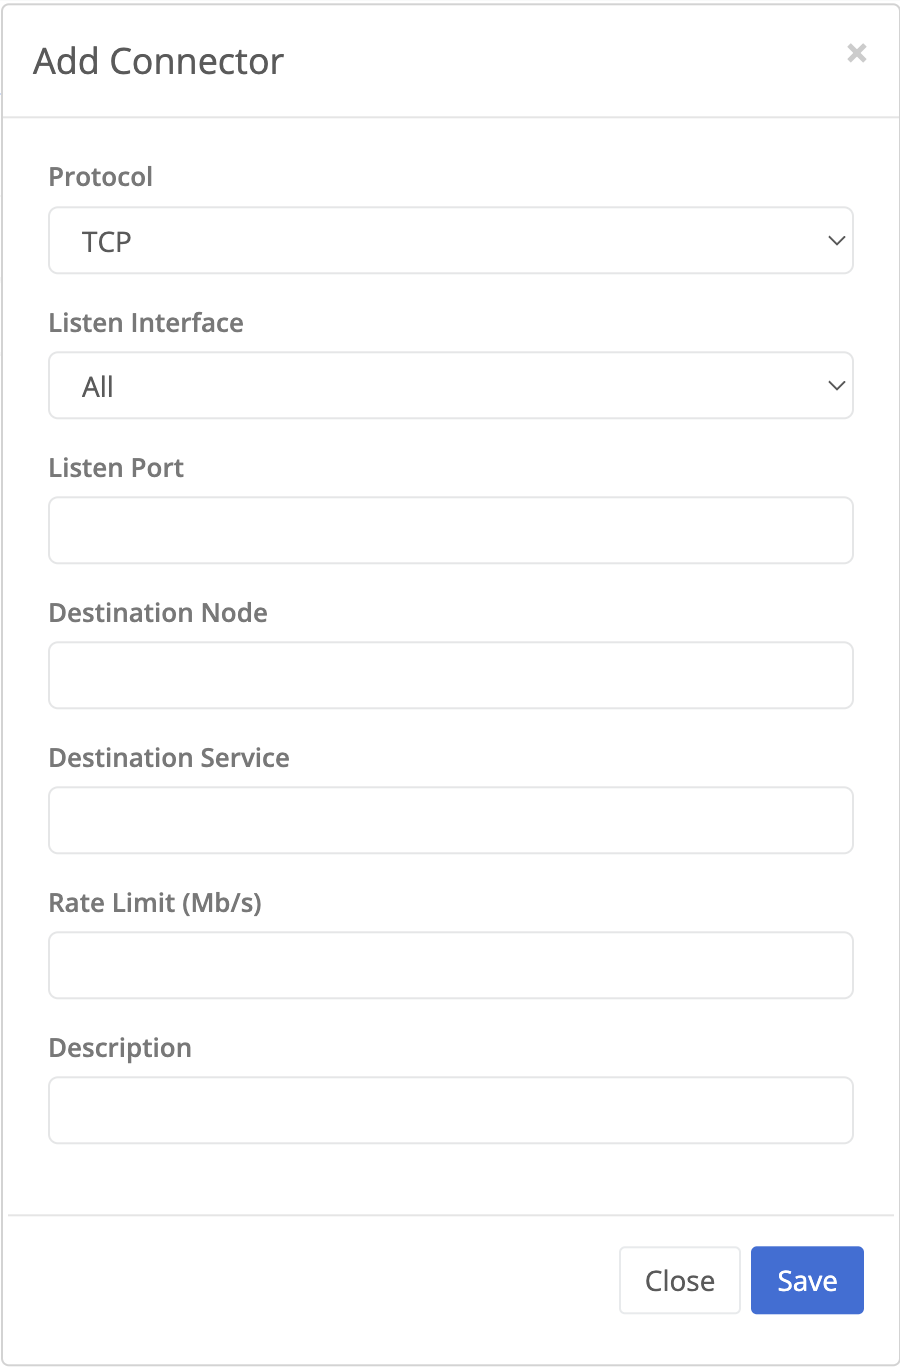
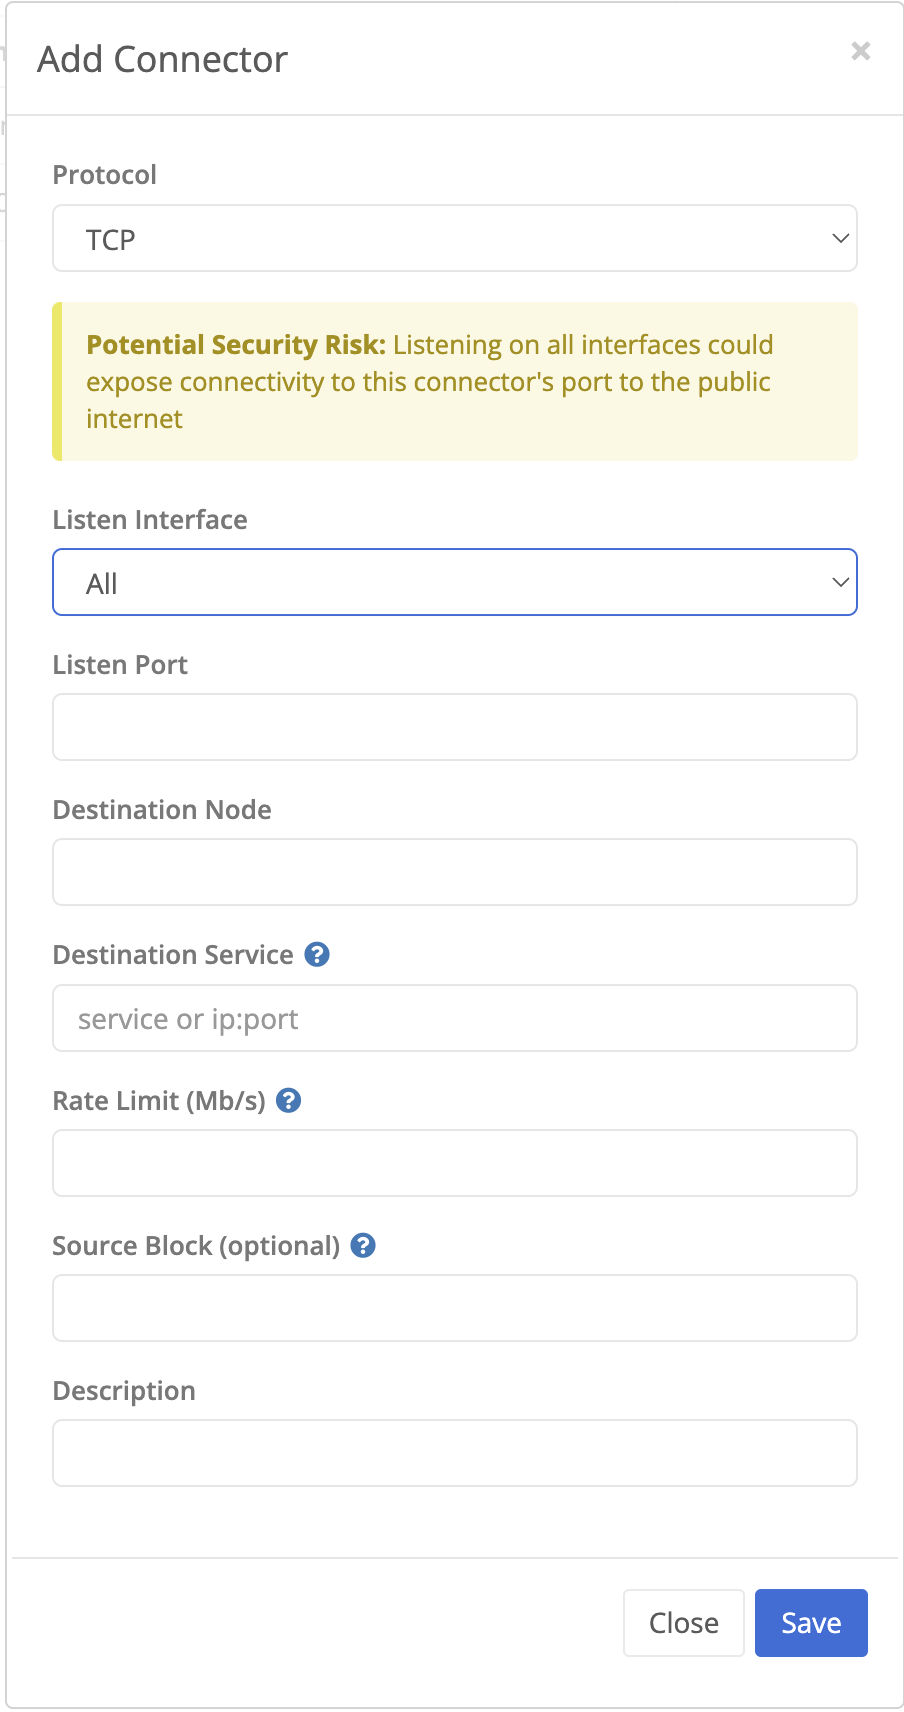
initial commit

diff --git a/content/en/release-notes/cloud/2024-09/index.md b/content/en/release-notes/cloud/2024-09/index.md
@@ -1,0 +1,41 @@
+---
+title: September 2024 Release Notes
+linkTitle: September 2024 Release
+date: 2024-09-01
+description: "September 2024 cloud release"
+type: docs
+---
+
+## Data Plane Status for Gateways
+A recent change to the data plane panel to display disconnected peers had the unintended side-effect that appliances acting as gateways would show a `Degraded` status if any of their clients wasn't connected, even if that client was offline. As this is a pretty normal state the status was confusing for users. The data plane status indicator has been changed to only count the connections the node is responsible for **initiating** and does not count any inbound connections. 
+
+## Layer 4 (L4) Improvements
+- Flow logs are now displayed on both the [Connector]({{<relref "/docs/nodes/shared/connectors">}}) and [Service]({{<relref "/docs/nodes/shared/services">}}) nodes.
+- Connectors on appliances now support an optional [source block]({{<relref "/docs/nodes/shared/connectors#source-block">}}) field to restrict access to the port.
+- A "Copy to Clipboard" option has been added to the Actions of both the Connectors and Services tables. This will copy all the information about the selected connector or service to the clipboard to make it easier to share with others. {{<tgimg src="connector-copy.png" width="50%" caption="Copying a connector to the clipboard">}}
+- Connectors can now be set to listen on the Bridge interface.  This is useful if you want a container to be able to access a remote service via local port. {{<tgimg src="connector-bridge.png" width="35%" caption="Bridge interface for connectors">}}
+
+## Nodes Table 
+### Role Column
+This release adds a new option column called "Role" that will list if a node is configured to act as a gateway (public, private or hub) or only as an edge node client.
+{{<tgimg src="role-column.png" width="35%" caption="Nodes table with Role column">}}
+
+### Node Table Fixes
+This release resolves several issues with the Nodes table.
+- Restores the ability to sort by additional columns like Tags, Clusters, etc.
+- The "Tag Filter" dialog no longer blocks access to the tool bar at the top of the table.
+- Nodes running outdated versions falsely reported the new [Node Health Checks]({{<relref "/release-notes/cloud/2024-07#node-health-check-visibility">}}) as `Unhealthy`.  This release changes this to `Unknown`
+
+## Uptime Metric
+Appliances running version [July 2024 version]({{<relref "/release-notes/node/2024-07-2">}}) or newer will now display how long the OS has been online since the last reboot at the top of the Overview page. 
+{{<tgimg src="node-uptime.png" width="35%">}}
+
+## User MFA Reset
+This release adds the ability of user with the `users::modify` permission, such as those with the `builtin-tg-access-admin` policy, to [reset the multi-factor authentication]({{<relref "/docs/user-management/users/account-mgmt#reset-mfa">}}) of users in the Trustgrid user database. This reset is logged under [Operation > Changes]({{<relref "/docs/operations/changes">}}).
+{{<tgimg src="/docs/user-management/users/account-mgmt/reset-mfa.png" width="50%" caption="Reset MFA prompt">}}
+
+## Other Fixes and Improvements
+- Resolves an issue where too many policies attached to a user/group prevented them from all displaying on the screen.
+- The network interface "Disable" button has been removed on AWS, Azure and GCP nodes as this is not supported in those environments.
+- The VPN [Virtual Route Table]({{<relref "/tutorials/remote-tools/view-virtual-route-table">}}) now correctly sorts by additional columns like Path and Master. 
+- Incidents from Trustgrid's [Statuspage](https://status.trustgrid.io/) are now displayed at the bottom of the portal while the incident is on-going.

diff --git a/content/en/docs/nodes/shared/connectors/index.md b/content/en/docs/nodes/shared/connectors/index.md
@@ -28,7 +28,10 @@ The protocol that the listener for the connector will use. Options are TCP, UDP,
  {{</field >}}
 
 {{<field "Listen Interface" >}}
-The interface that you want the connector to listen on. If set to "All", the connector will listen on 0.0.0.0.
+The interface that you want the connector to listen on. 
+- All - listens on all interfaces (0.0.0.0/0). This can be a security risk if any of the interfaces are connected to an untrusted network, like a public internet connection.
+- Interface # - This will only listen on the IP of the selected interface.
+- Bridge Interface - The bridge interface sits between the container and the host. This is useful if you want a container to be able to access a remote service via local port.
 {{</field >}}
 
 {{<field "Listen Port" >}}
@@ -46,6 +49,11 @@ Either the friendly name of [service]({{<ref "docs/nodes/shared/services" >}}) t
 {{<field "Rate Limit (Mb/s)" >}}
 The maximum amount of throughput that will be allowed to traverse the tunnel when connecting to the connector. This can be used to prevent saturating the connection at either the local or remote sites.
 {{</field >}}
+
+{{<field "Source Block">}}
+(Optional, Appliances Only) This comma separated list of Network CIDRs will restict what IPs can connect to the connector.
+{{</field>}}
+
 {{<field "Sniff Traffic">}}
 Listed only on the Connectors table, this will automatically launch a Sniff Traffic tool for the [listening port](#listen-port).
 {{<tgimg src="connector-sniff-traffic.png" width="60%">}}

diff --git a/content/en/docs/user-management/users/account-mgmt/index.md b/content/en/docs/user-management/users/account-mgmt/index.md
@@ -20,3 +20,13 @@ To change your multi-factor authentication (MFA) application:
 1. Enter your current password and click submit. {{<tgimg src="change-mfa.png" width="50%" caption="Change MFA prompt">}}
 
 {{<alert color="info">}}If you are unable to login to the Trustgrid portal you will need to work with Trustgrid support to regain access{{</alert>}}
+
+## Reset MFA
+Users with the `users::modify` permission, such as those with the `builtin-tg-access-admin` policy, can reset another user's MFA by following the steps below:
+1. Login to the Trustgrid portal using your current password and provide your MFA code
+1. Navigate to User Management > Users
+1. Select the user you want to reset and select the "Reset MFA" option from the Actions drop down.
+ {{<tgimg src="reset-mfa.png" width="50%" caption="Reset MFA prompt">}}
+1. The user will be required to reconfigure MFA on their next login.
+
+{{<alert color="info">}}This action only impacts MFA configured for users in the Trustgrid user database.  It does not impact MFA configured for users in your identity provider.{{</alert>}}
